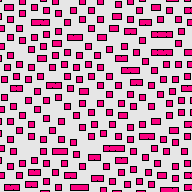
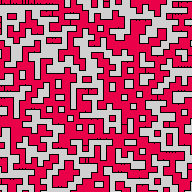
More optimisations

diff --git a/src/main.rs b/src/main.rs
@@ -26,16 +26,16 @@ fn main() {
     let image_name = "tileset.png";
     let filepath = format!("{}/{}", INPUT_DIR, image_name);
     let image = ImageRGBA::<u8>::load(filepath).expect("Failed to load image");
-    println!("{}", image);
+    // println!("{}", image);
 
     let image_tiles = image.tiles(TILE_SIZE);
     let unique_tiles = image.unique_tiles(TILE_SIZE);
     print_images_with_captions(unique_tiles.as_slice(), 1);
 
-    let _tile_mapping = map_tiles(&image_tiles, &unique_tiles);
+    let tile_mapping = map_tiles(&image_tiles, &unique_tiles);
 
-    // let rules = generate_rules(&tile_mapping);
-    let rules = load_rules();
+    let rules = generate_rules(&tile_mapping);
+    // let rules = load_rules();
     let mut wave_function = WaveFunction::new(OUTPUT_MAP_SIZE, rules);
 
     let mut rng = rand::rng();
